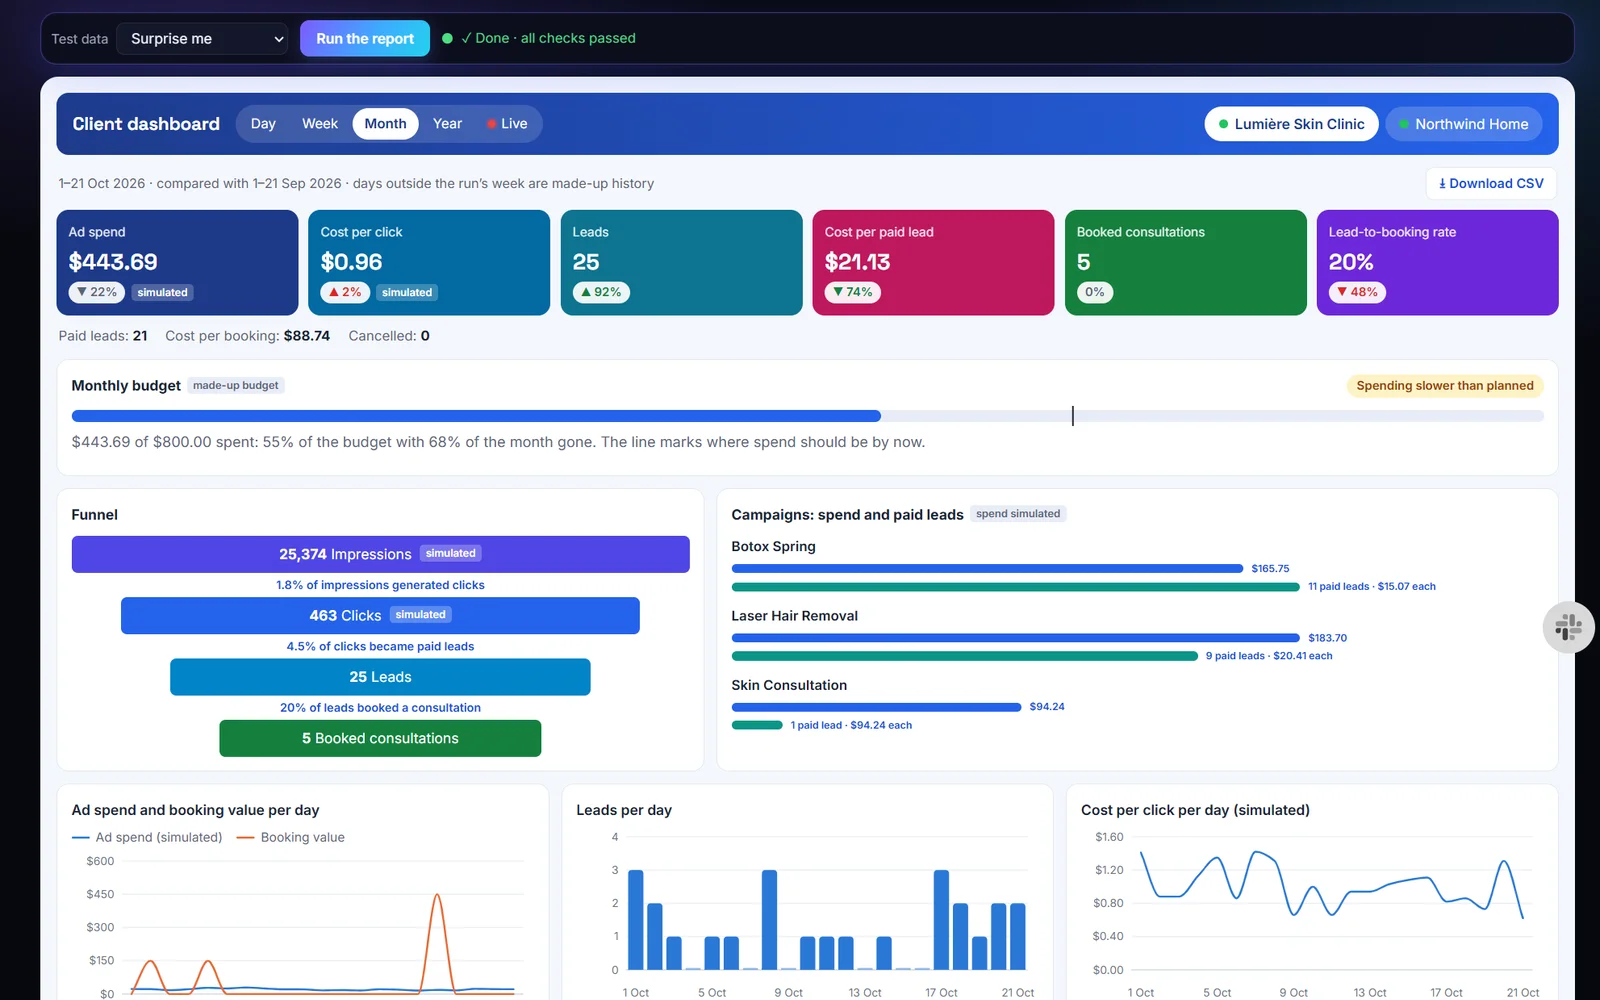
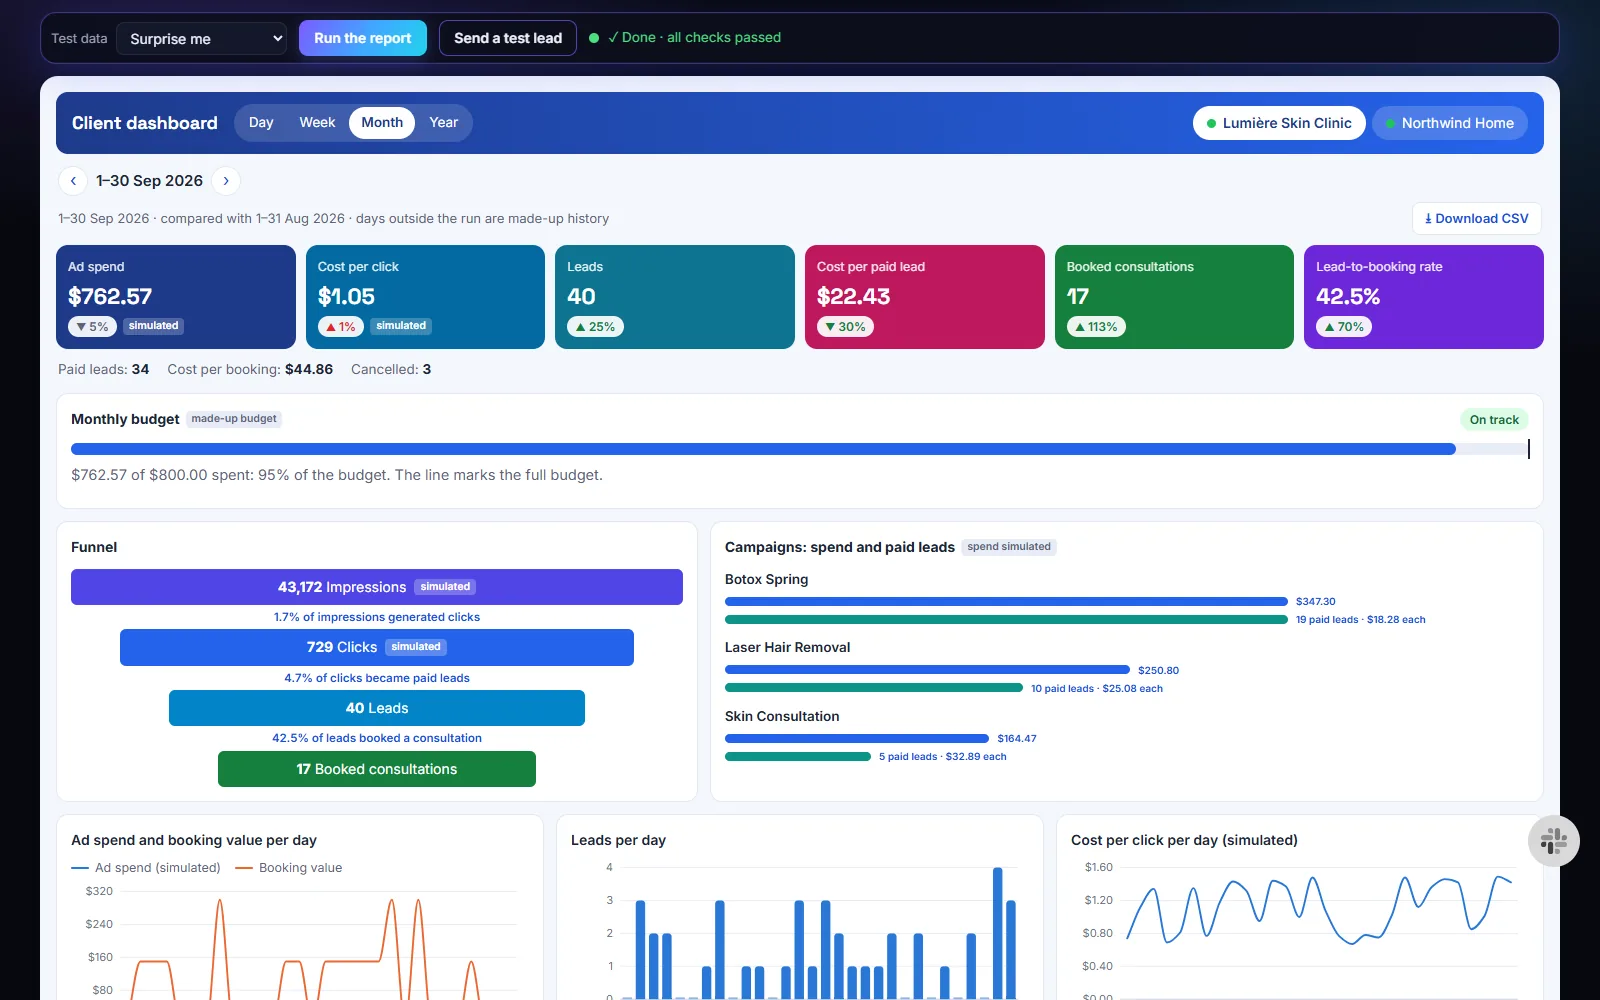
Agency demo card: new screenshots (period stepper, test lead button, AI summary, data health)

Changed region(s): [[0.0312, 0.0, 1.0, 1.0], [0.0625, 0.899, 0.3438, 1.0]]

diff --git a/index.html b/index.html
@@ -633,7 +633,7 @@ footer{padding:56px 0;color:var(--muted);font-size:14px;border-top:1px solid var
       <li><b>Live:</b> n8n workflows on a free server: one plays the customers of the last 7 days and saves them in a GoHighLevel sandbox; the report a real client would get reads them back, sends the conversions to Meta's Conversions API and posts an alert to Slack when a check fires or a run fails; another asks Gemini for a summary on request, and another sends test leads through GoHighLevel and Meta one at a time. The logic is covered by 198 automated tests.</li>
     </ul>
     <p><a class="btn primary" href="agency-demo/">Try the demo →</a></p>
-    <div class="shots"><img src="img/agency-demo.webp" alt="Agency report demo: client dashboard, month view, with budget, funnel, campaigns and charts" loading="lazy"></div>
+    <div class="shots"><img src="img/agency-demo.webp" alt="Agency report demo: client dashboard, month view, with the period stepper, budget, funnel and campaigns" loading="lazy"><img src="img/agency-demo-2.webp" alt="Agency report demo: charts, the AI summary written by Gemini with code-filled numbers, and data health warnings" loading="lazy"></div>
   </div>
 
   <div class="card">
